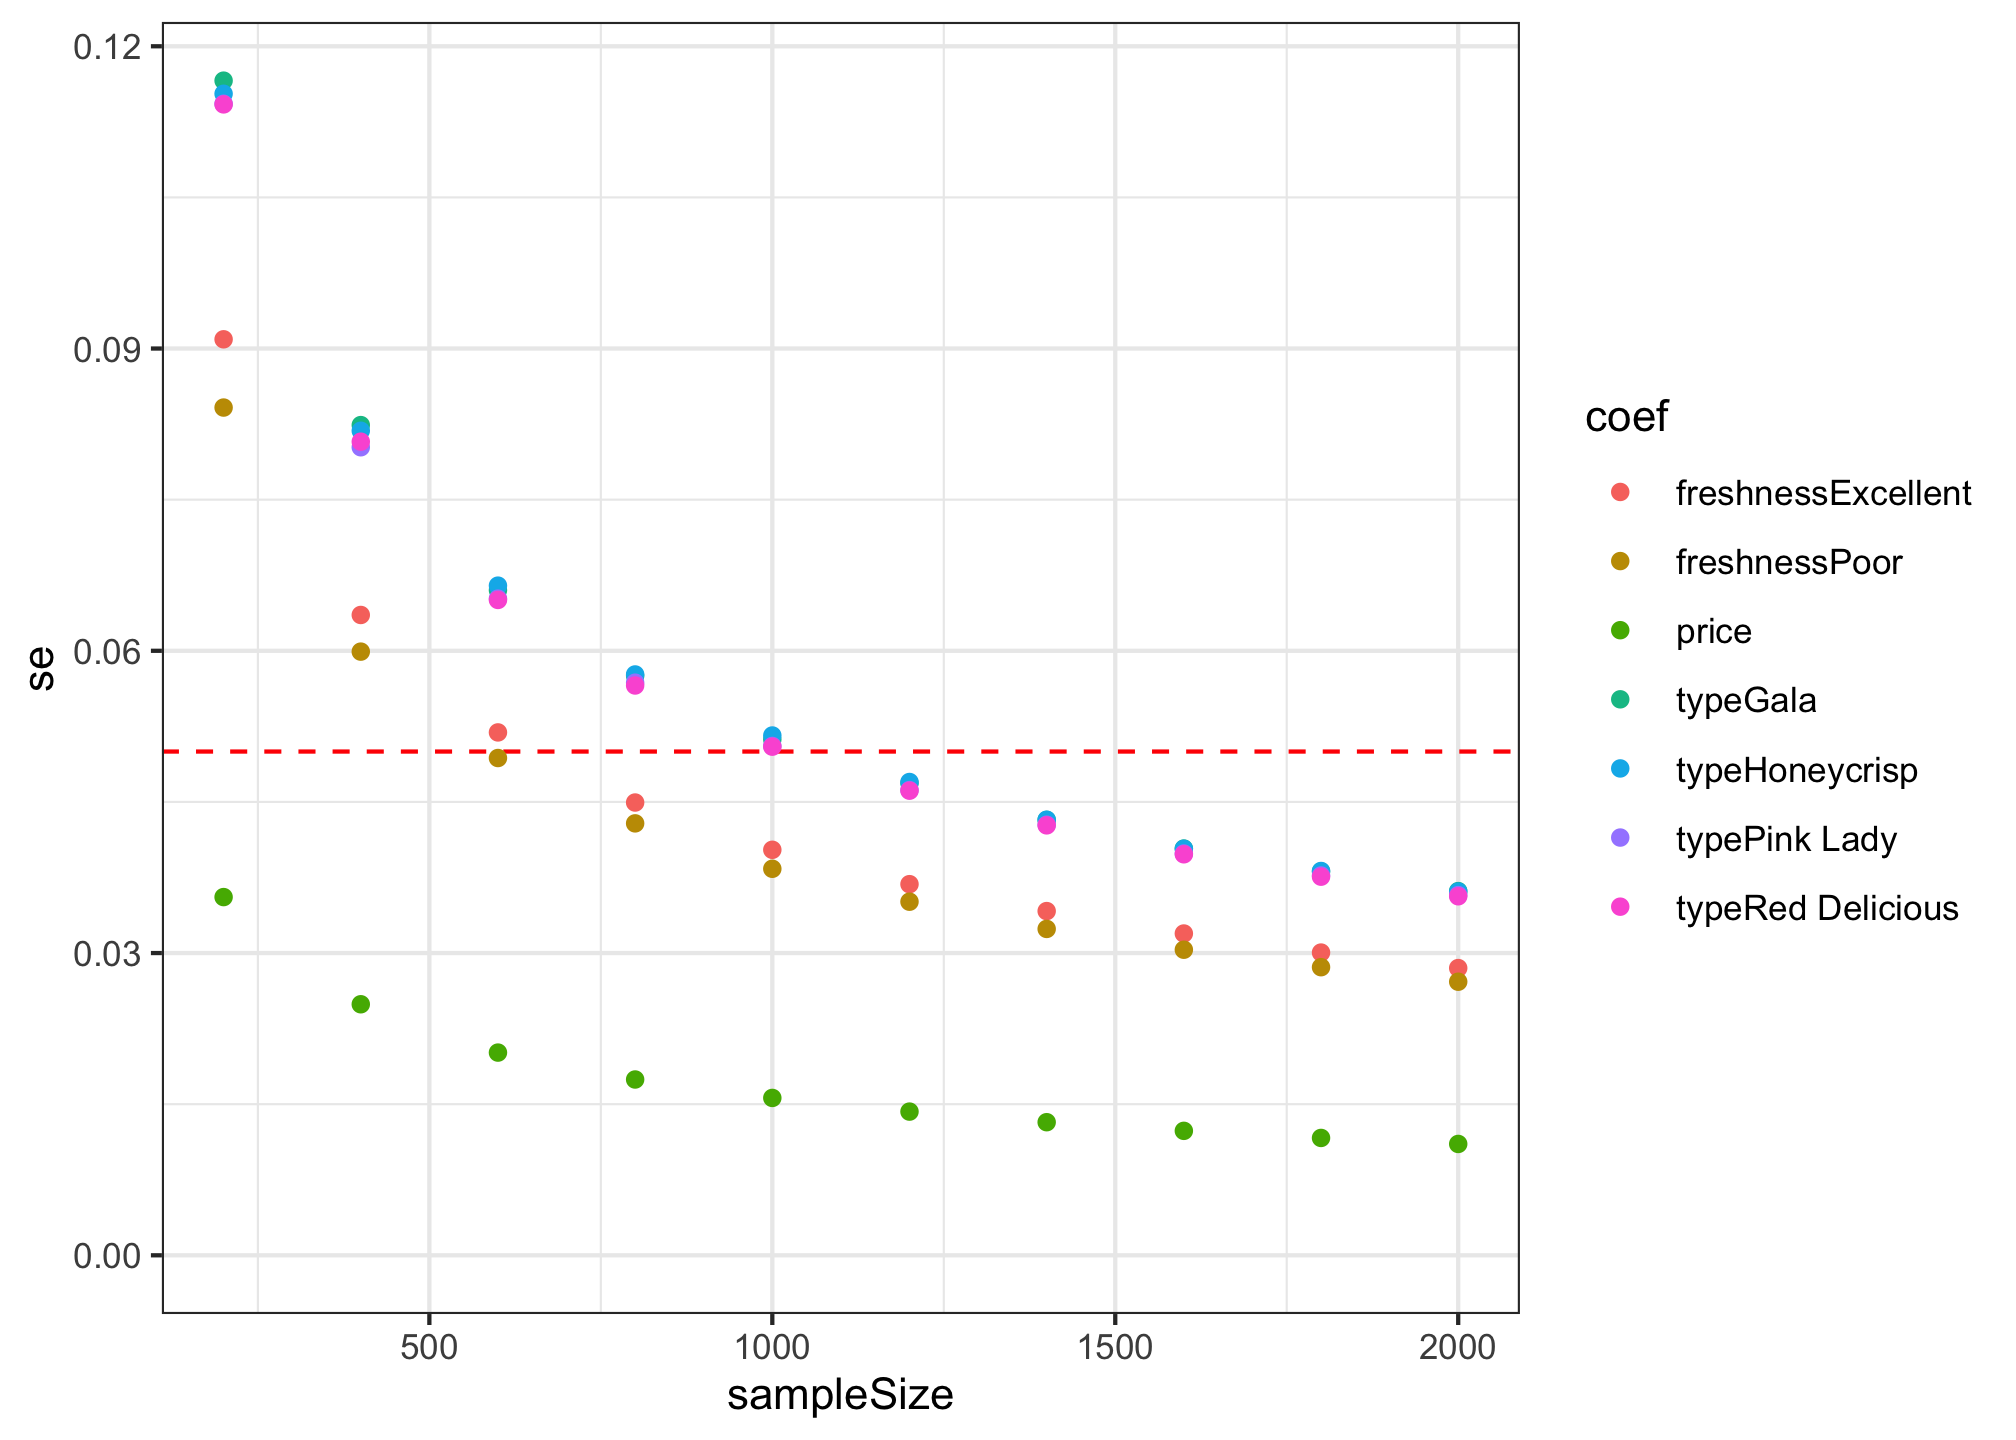
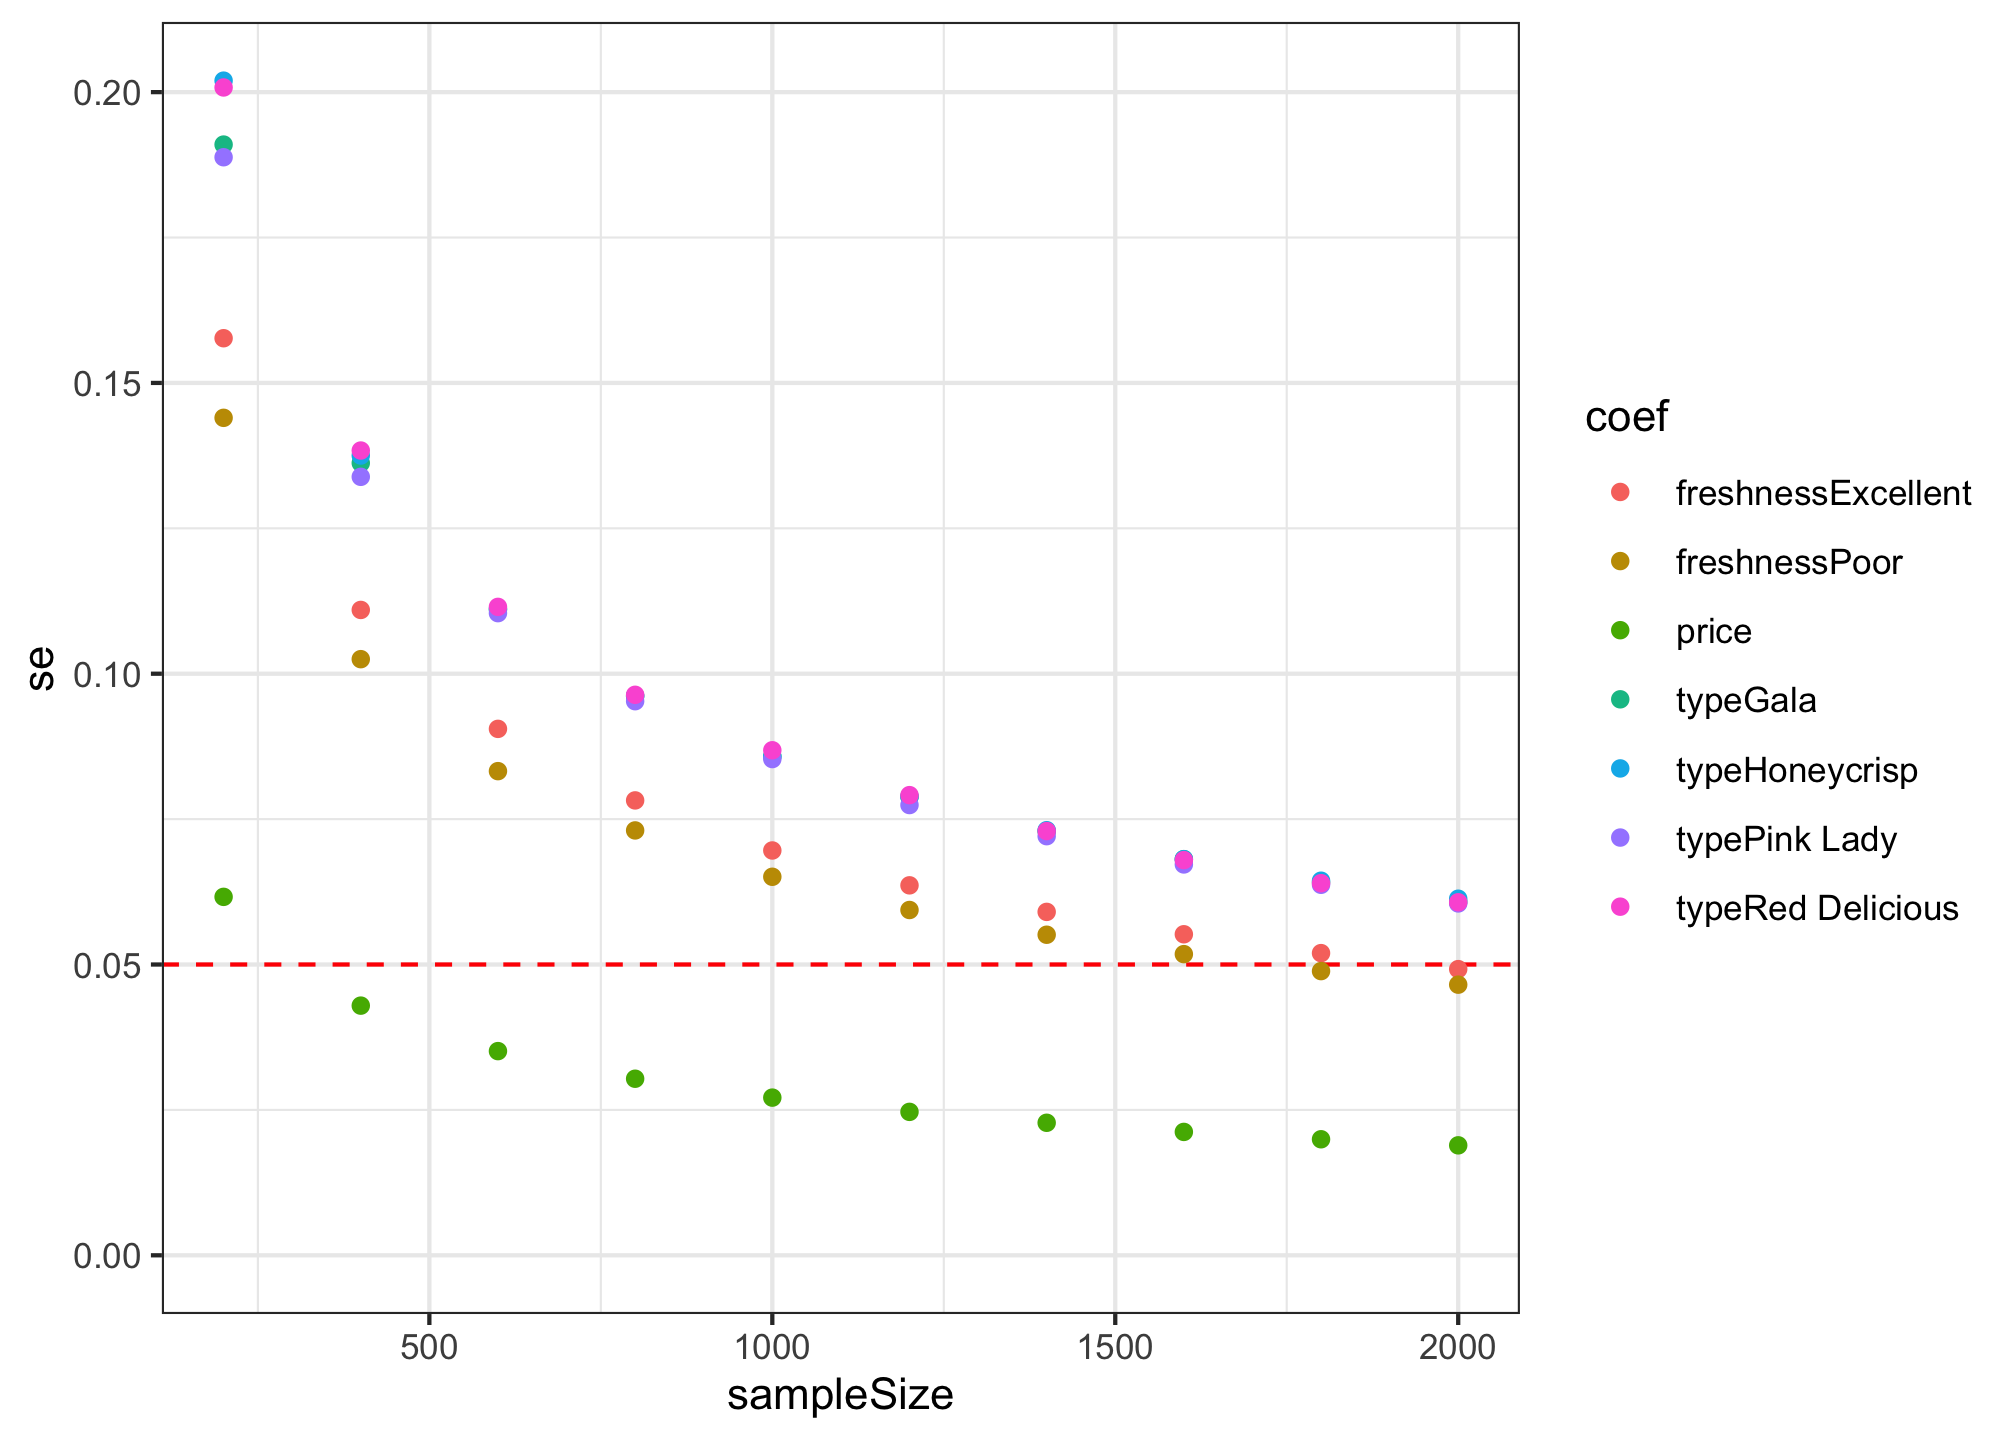
faster model estimation, v0.0.6

diff --git a/README.md b/README.md
@@ -123,7 +123,7 @@ The resulting data frame includes the following additional columns:
   - `obsID`: Identifies each unique choice observation across all
     respondents.
 
-## Simulating choices
+## Simulate choices
 
 You can simulate choices for a given `survey` using the
 `simulateChoices()` function. By default, random choices are simulated:
@@ -164,14 +164,6 @@ data <- simulateChoices(
         type      = c(0.1, 0.2, 0.3, 0.4),
         freshness = c(0.1, -0.1))
 )
-head(data)
-#>     respID qID altID obsID price       type freshness choice
-#> 1.1      1   1     1     1   2.0       Fuji   Average      0
-#> 1.2      1   1     2     1   1.5       Gala Excellent      1
-#> 1.3      1   1     3     1   3.0  Pink Lady Excellent      0
-#> 2.4      1   2     1     2   1.5       Fuji   Average      0
-#> 2.5      1   2     2     2   2.0 Honeycrisp      Poor      1
-#> 2.6      1   2     3     2   1.0 Honeycrisp      Poor      0
 ```
 
 You can also simulate data with more complex models, such as mixed logit
@@ -202,7 +194,7 @@ data <- simulateChoices(
 )
 ```
 
-## Conducting a power analysis
+## Conduct a power analysis
 
 The simulated choice data can be used to conduct a power analysis by
 estimating multiple models with different sample sizes. The
@@ -241,13 +233,13 @@ standard errors from each model can be extracted using the
 results <- getModelResults(models)
 
 head(results)
-#>    sampleSize               coef        est         se
-#> 1:        200              price 0.13068256 0.03555511
-#> 2:        200           typeGala 0.20925394 0.11658812
-#> 3:        200     typeHoneycrisp 0.23425031 0.11528625
-#> 4:        200      typePink Lady 0.35565067 0.11429815
-#> 5:        200  typeRed Delicious 0.62267060 0.11423156
-#> 6:        200 freshnessExcellent 0.07040354 0.09091642
+#>    sampleSize               coef         est        se
+#> 1:        200              price -0.07093766 0.0616323
+#> 2:        200           typeGala  0.01852680 0.1909831
+#> 3:        200     typeHoneycrisp -0.18315704 0.2019748
+#> 4:        200      typePink Lady  0.03520526 0.1888064
+#> 5:        200  typeRed Delicious -0.09550322 0.2008047
+#> 6:        200 freshnessExcellent  0.01345243 0.1576876
 ```
 
 Here is a summary of the standard errors for each sample size:
@@ -291,7 +283,7 @@ citation("conjointTools")
 #>     title = {conjointTools: Tools For Designing Conjoint Survey Experiments},
 #>     author = {John Paul Helveston},
 #>     year = {2021},
-#>     note = {R package version 0.0.5},
+#>     note = {R package version 0.0.6},
 #>     url = {https://jhelvy.github.io/conjointTools/},
 #>   }
 ```

diff --git a/NEWS.md b/NEWS.md
@@ -1,3 +1,7 @@
+# conjointTools 0.0.6
+
+Improved how the models are estimated in `estimateModels()` for increased speed using a nested approach with {data.table}.
+
 # conjointTools 0.0.5
 
 Updated functions to be consistent with some breaking changes introduced when {logitr} was updated from 0.2.0 to 0.3.0, which is necessary since {logitr} is the underlying package used to estimate models in the power analyses.
